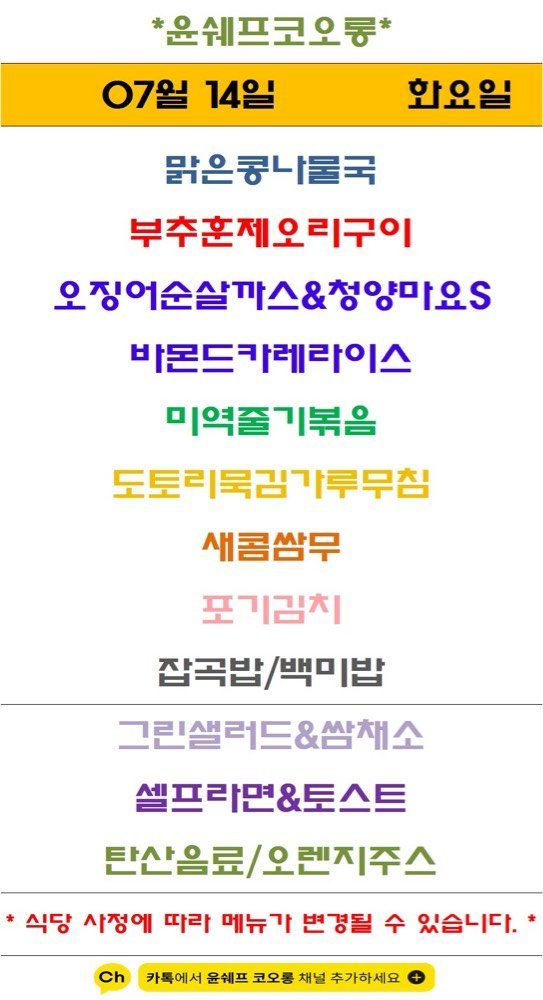
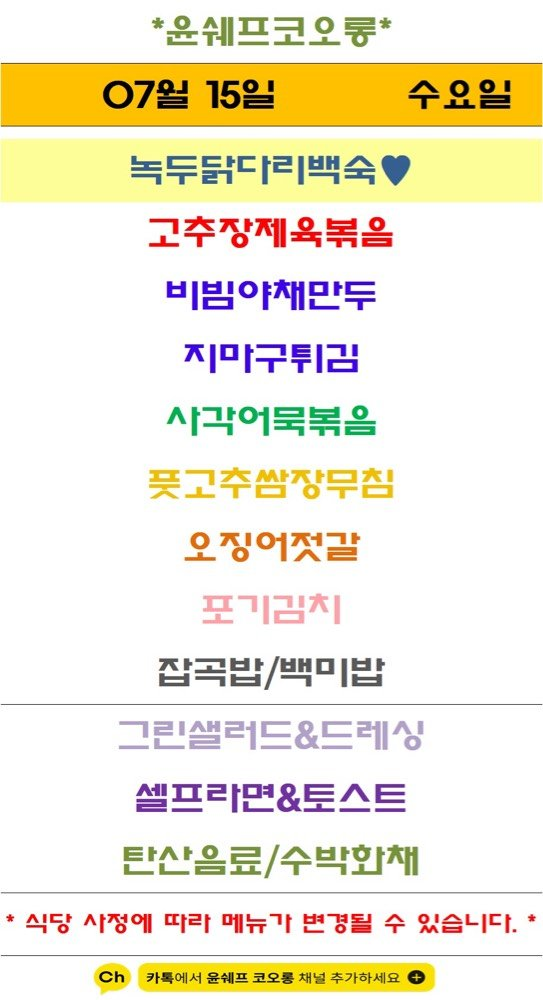
Update menu board assets

diff --git a/guro-menu/index.html b/guro-menu/index.html
@@ -32,7 +32,7 @@
   </header>
   <section class="meta">
     <div><small>기준 날짜</small><strong>2026년 7월 15일 수요일</strong></div>
-    <div><small>최종 갱신</small><strong>2026-07-15 09:04:45</strong></div>
+    <div><small>최종 갱신</small><strong>2026-07-15 09:14:31</strong></div>
     <div><small>등록 식당</small><strong>5개</strong></div>
   </section>
   <div class="notice">공개 카카오 채널의 메뉴 이미지를 자동 수집하고 OCR로 정리합니다. 텍스트에 오타가 있을 수 있으니 식단 이미지를 함께 확인해 주세요.</div>
@@ -103,8 +103,8 @@
           <a class="channel" href="https://pf.kakao.com/_Xxhxkhs" target="_blank" rel="noopener">원본 채널</a>
         </div>
         <img class="menu-image" src="./images/yoon-chef-kolon.png" alt="윤쉐프 코오롱 식단 이미지" loading="lazy">
-        <p class="message">최신 공개 식단 이미지의 텍스트입니다. 날짜는 원본 이미지를 확인해 주세요.</p>
-        <ul><li>O72! 14일 한요일</li><li>맑은콩나물국</li><li>부주훈제오리구이</li><li>오징어순살까스&amp;청양마요6</li><li>바몬드카레라이스</li><li>미역줄기볶음</li><li>새콤쌈무</li><li>잡곡밥/백미밥</li><li>그린샐러드&amp;쌈채소</li><li>셀프라면&amp;토스트</li><li>탄산음료/오렌지주스</li></ul>
+        
+        <ul><li>고추장제육볶음</li><li>비빔야재만두</li><li>지마구튀김</li><li>사각어묵볶음</li><li>잡곡밥/백미밥</li><li>그린샐러드&amp;드레싱</li><li>셀프라면&amp;토스트</li><li>탄산음료/수박화재</li></ul>
       </article>
   </section>
   <section class="seo" aria-label="검색 정보">한신IT타워 구내식당 자연푸드 구내식당 더이츠푸드 벽산더이룸 윤쉐프 코오롱 한신IT타워 벽산디지털밸리7차 대륭포스트타워1차 벽산디지털밸리1차 코오롱싸이언스밸리1차 서울 구로구 디지털로 272 한신IT타워 지하1층 서울 구로구 디지털로33길 50 벽산디지털밸리7차 지하1층 서울 구로구 디지털로 288 대륭포스트타워1차 지하1층 서울 구로구 디지털로27길 24 벽산디지털밸리1차 지하1층 서울 구로구 디지털로34길 43 코오롱싸이언스밸리1차 지하1층</section>

diff --git a/menu-today/index.html b/menu-today/index.html
@@ -209,7 +209,7 @@
 
     <section class="meta-bar">
       <div class="meta-card"><div class="meta-label">기준 날짜</div><div class="meta-value">2026년 7월 15일 수요일</div></div>
-      <div class="meta-card"><div class="meta-label">최종 가져온 시간</div><div class="meta-value">2026-07-15 09:04:31</div></div>
+      <div class="meta-card"><div class="meta-label">최종 가져온 시간</div><div class="meta-value">2026-07-15 09:14:17</div></div>
       <div class="meta-card"><div class="meta-label">확인 완료</div><div class="meta-value">9개 식당</div></div>
       <div class="meta-card"><div class="meta-label">준비중</div><div class="meta-value">3개 채널</div></div>
     </section>
@@ -255,7 +255,7 @@
             <div class="sub">디폴리스지식산업센터</div>
           </div>
         </div>
-        <div class="menu-inline-image"><img src="./images/dipolis.png" alt="디폴리스 구내식당 식단 이미지"></div><ul><li>묵은지 돼지고기 ss</li><li>생선까스 / 타르타르S</li><li>구수한 SX / 수박 후르츠</li><li>가지 고추 조림</li><li>영양 참쌀 닭죽</li><li>오징어 AZ 무침 / 미나리 겉절이</li><li>지기례새 샐러드</li><li>백김치</li><li>잠곡밥 / 흰쌀밥</li><li>도시락 A</li><li>구수한</li></ul>
+        <div class="menu-inline-image"><img src="./images/dipolis.png" alt="디폴리스 구내식당 식단 이미지"></div><ul><li>묵은지 돼지고기 ss</li><li>생선까스 / 타르타르</li><li>구수한 SX / 수박 후르츠</li><li>가지 고추 조림</li><li>영양 참쌀 닭죽</li><li>오징어 AZ 무침 / 미나리 겉절이</li><li>지기례새 샐러드</li><li>백김치</li><li>잠곡밥 / 흰쌀밥</li><li>도시락 A</li><li>구수한</li></ul>
       </article>
 
       <article class="restaurant-card">
